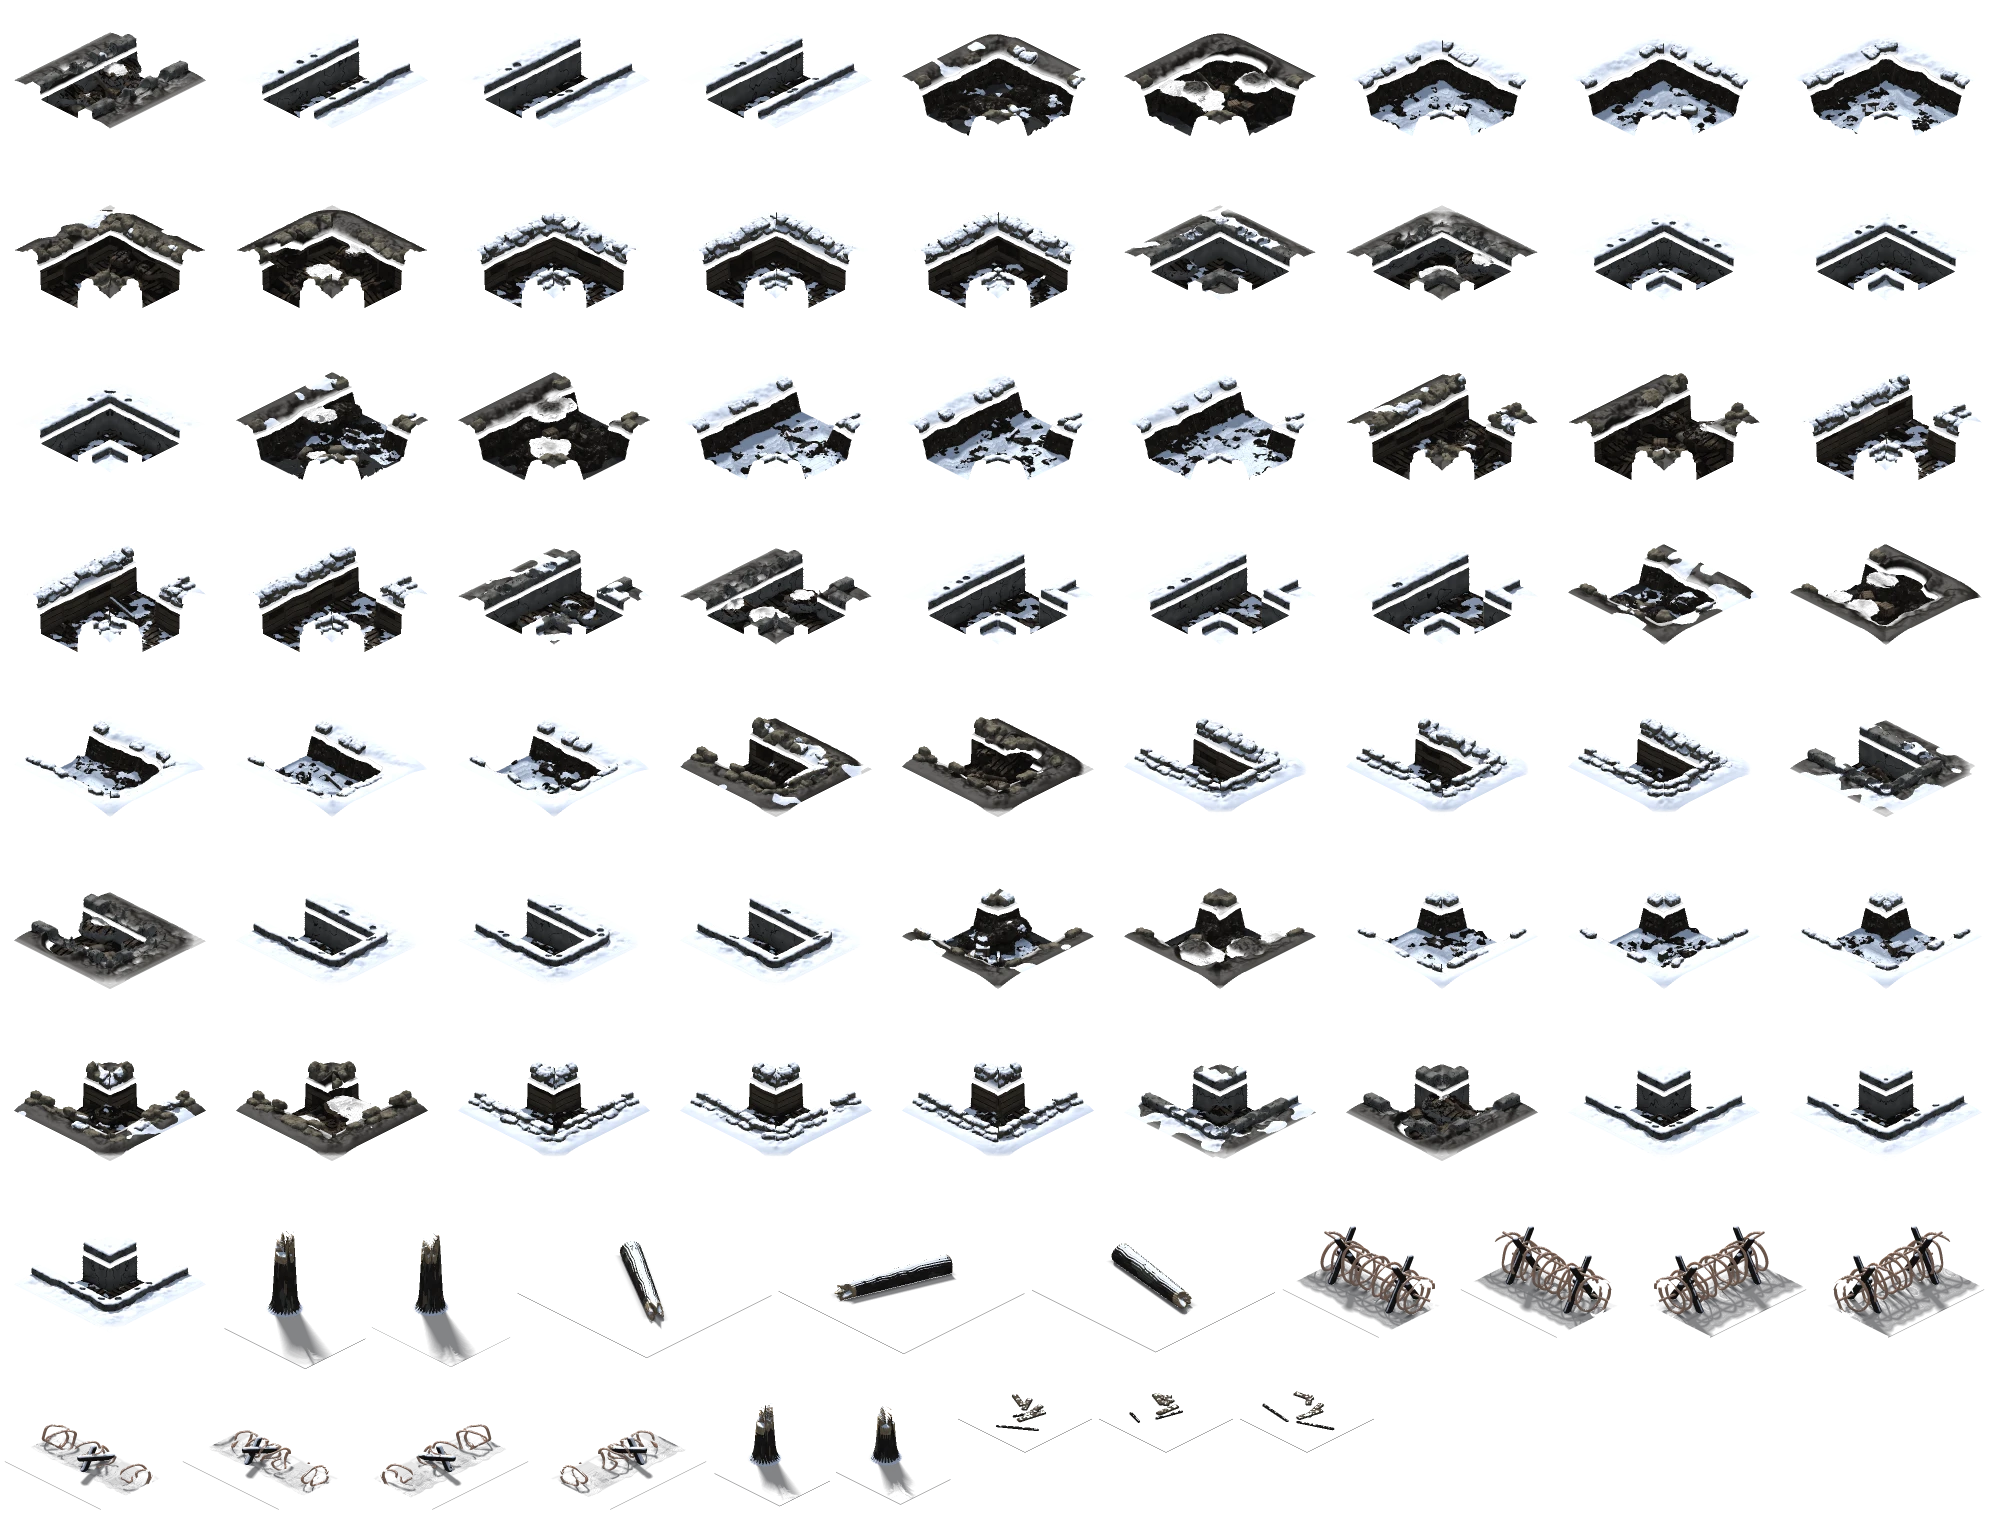
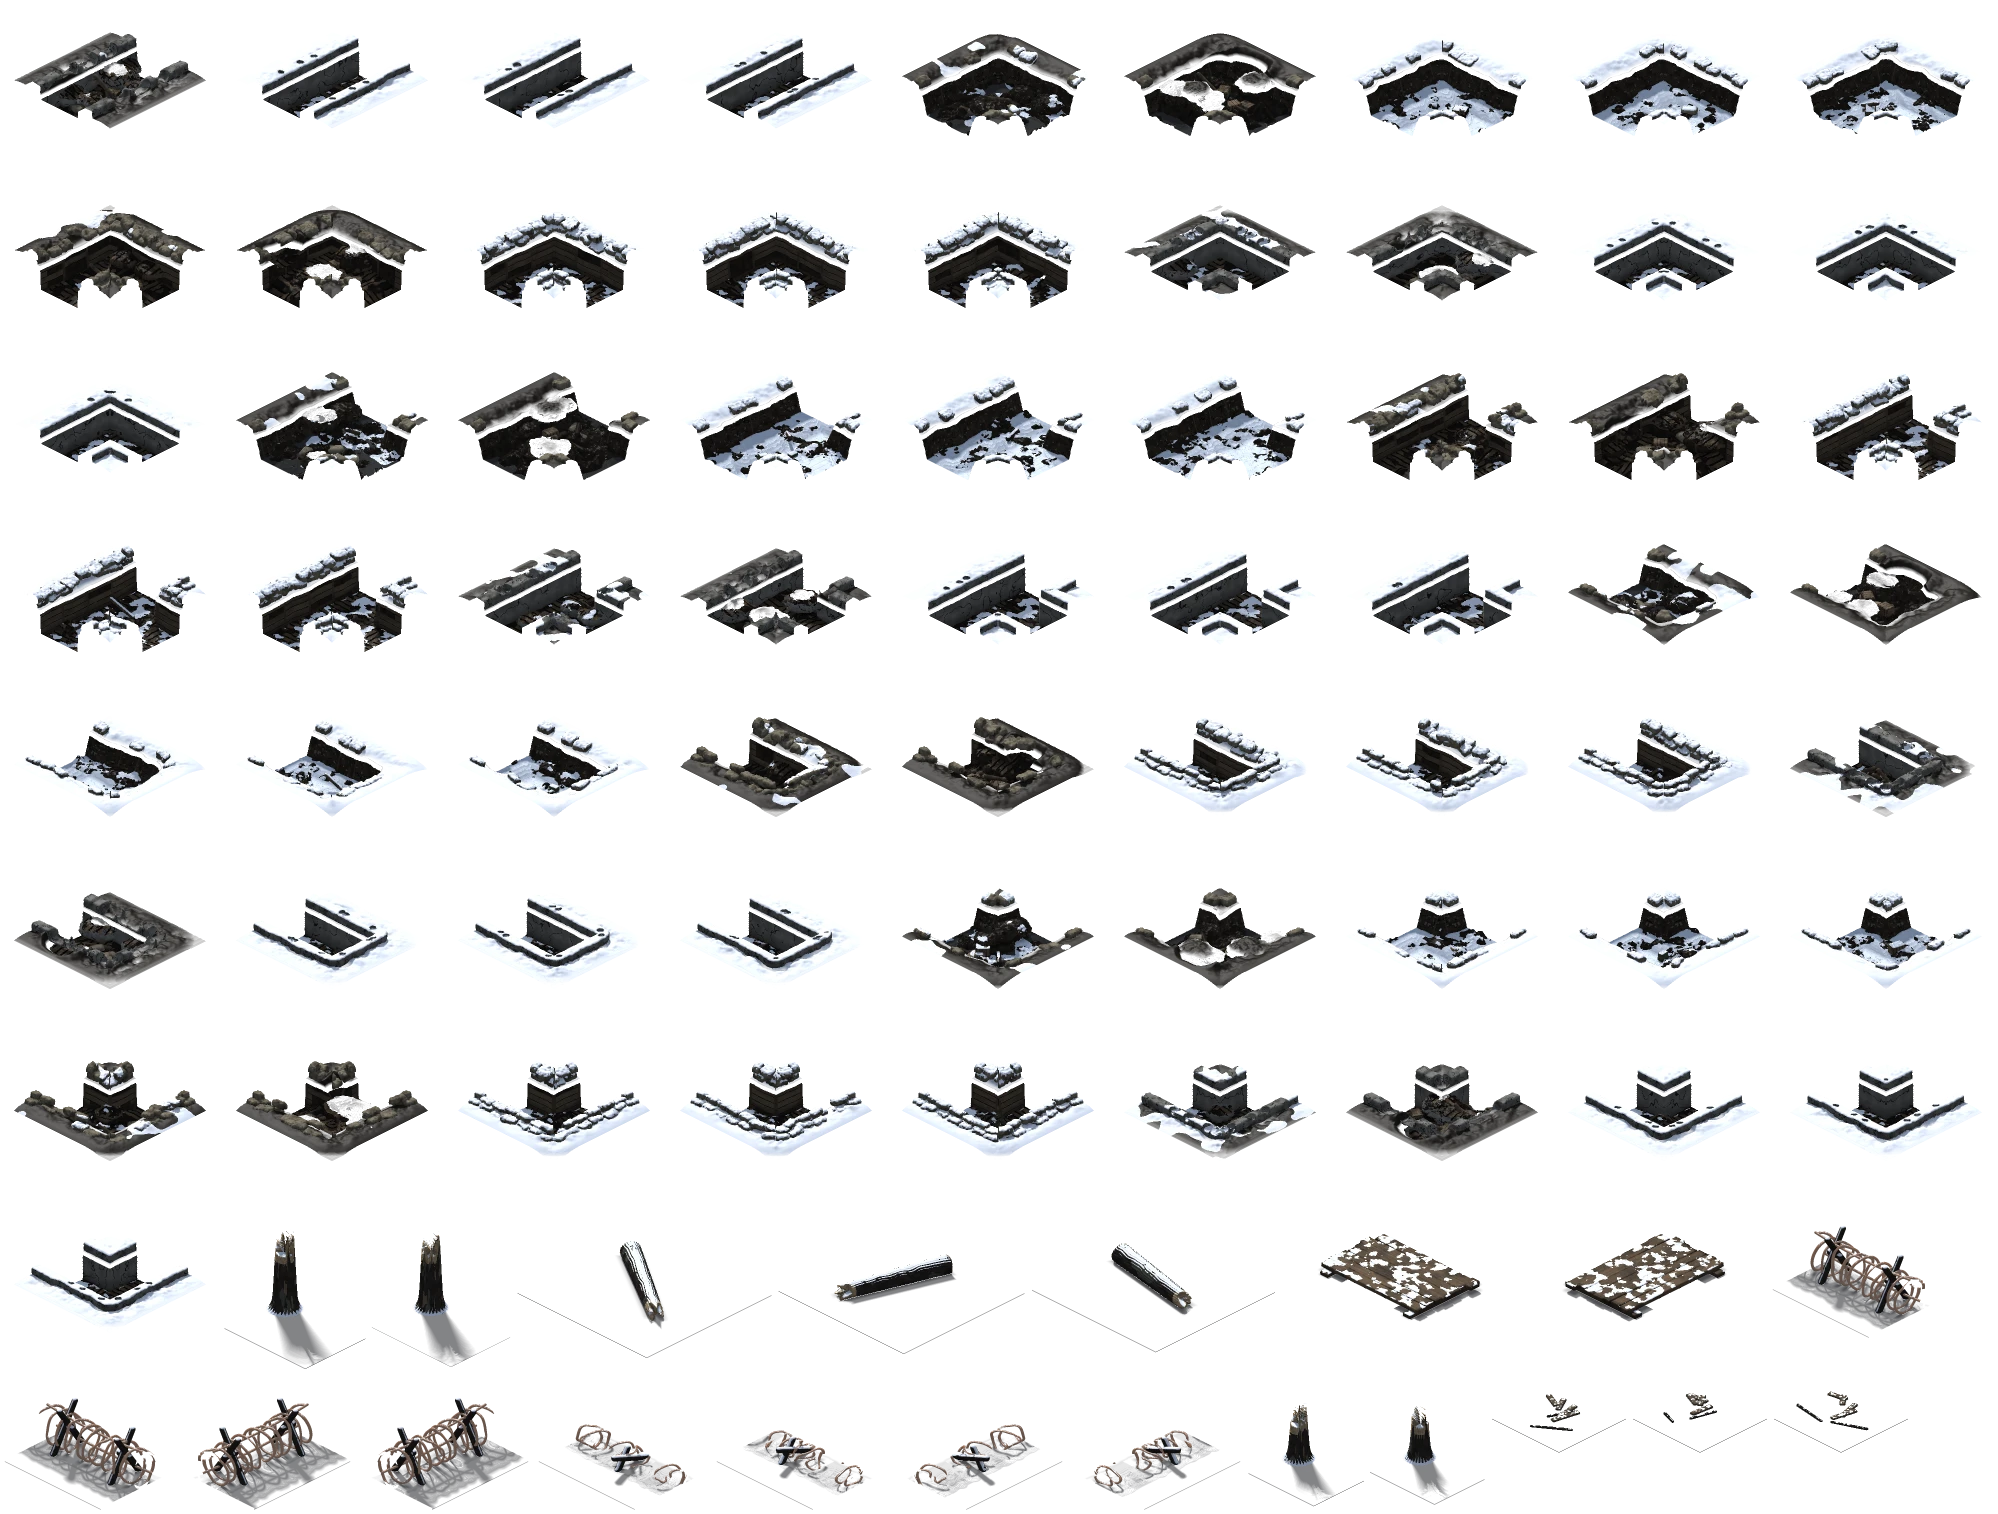
Planks over trenches are pre-rendered 3D props (boards on bearers, each askew, weathered and muddy; snowy in winter; both crossing directions)
Claude-Session: https://claude.ai/code/session_01QRLYjet5i3xPK5hPmw42NL

diff --git a/src/render.js b/src/render.js
@@ -1235,8 +1235,12 @@ export class Renderer {
    */
   drawBridges(ctx, map) {
     if (!map.bridges) map.bridges = map.tiles.filter((t) => t.bridge).map((t) => ({ x: t.x, y: t.y, axis: t.bridge }));
+    const snow = (this.S ?? 1) > 0.7 ? '_s' : '';
     for (const b of map.bridges) {
       const cx = b.x + 0.5, cy = b.y + 0.5, along = b.axis === 1, Lh = 0.42, n = 7, w = 0.075, Z = 1.5;
+      // the pre-rendered planks (as the trenches); the drawing below only until the sprite sheet has loaded
+      const c0 = iso(cx, cy);
+      if (this.drawFrame(ctx, this.propGroup(), `bridge_${along ? 'x' : 'y'}${snow}`, c0.x, c0.y, 1)) continue;
       const P = (a, c) => { const p = along ? iso(cx + a, cy + c) : iso(cx + c, cy + a); return { x: p.x, y: p.y - Z }; };
       // bearers: two beams under the ends of the boards, resting on the ground either side
       ctx.fillStyle = '#3b2a1c';

diff --git a/index.html b/index.html
@@ -20,7 +20,7 @@
       "./src/model-view.js": "./src/model-view.js?v=214a5b12",
       "./src/path.js": "./src/path.js?v=23c490f7",
       "./src/relief.js": "./src/relief.js?v=2441f819",
-      "./src/render.js": "./src/render.js?v=ac554a60",
+      "./src/render.js": "./src/render.js?v=3de7af45",
       "./src/save.js": "./src/save.js?v=d9f3c3e0",
       "./src/tutorial.js": "./src/tutorial.js?v=e4dedf11",
       "./src/ui.js": "./src/ui.js?v=e696f479",
